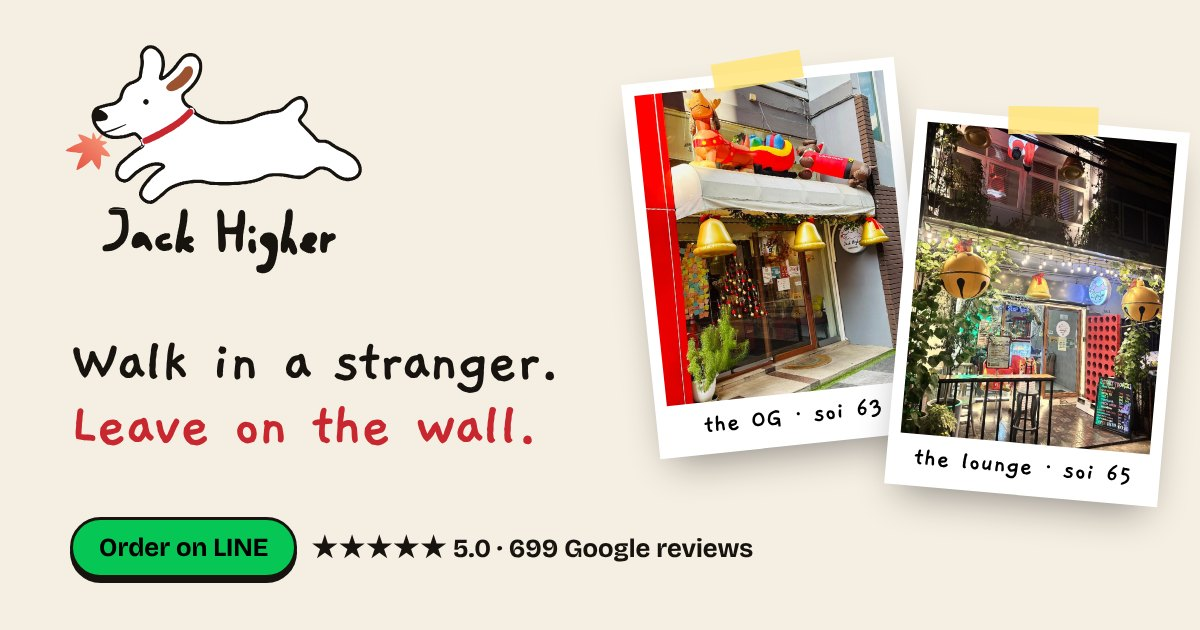
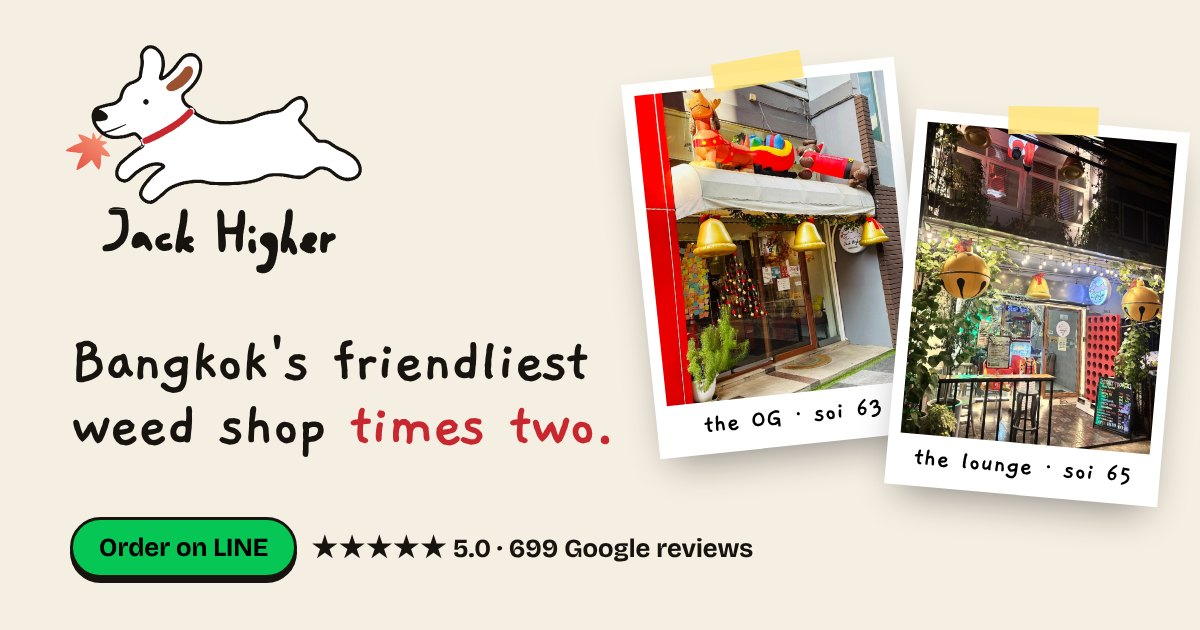
New hero: Bangkok's friendliest weed shop, times two
Headline in English and Thai, matching share title and OG image.
Fix desktop overlap: hero lines now wrap inside the copy column
instead of being forced onto one line; sizes capped so every width
shows two lines plus the red second line in both languages.

Claude-Session: https://claude.ai/code/session_011sAqMo4QswaP1YVyBxhKZm

Changed region(s): [[0.0617, 0.6333, 0.4933, 0.7238], [0.0617, 0.5429, 0.4933, 0.6333]]

diff --git a/src/styles.css b/src/styles.css
@@ -200,9 +200,8 @@ mark { background: none; color: inherit; }
 /* Thai needs air above and below for tone marks and vowels; negative tracking breaks clusters */
 :lang(th) body { line-height: 1.7; }
 :lang(th) .hand { letter-spacing: 0; }
-:lang(th) .hero__title { line-height: 1.16; font-size: clamp(2rem, 8.5vw, 4.4rem); letter-spacing: 0; }
-.hero__title .line > span { white-space: nowrap; }
-@media (min-width: 1040px) { :lang(th) .hero__title { font-size: min(4.4rem, 3.9vw); } }
+:lang(th) .hero__title { line-height: 1.16; font-size: clamp(1.8rem, 7.5vw, 4.2rem); letter-spacing: 0; }
+@media (min-width: 1040px) { :lang(th) .hero__title { font-size: min(3rem, 3.6vw); } }
 .btn, .lang { white-space: nowrap; }
 :lang(th) .js .hero__title .line, .is-th.js .hero__title .line { overflow-clip-margin: .45em; padding-top: .08em; }
 :lang(th) .section__title { line-height: 1.18; letter-spacing: 0; font-size: clamp(2.1rem, 8.6vw, 3.7rem); }
@@ -245,12 +244,12 @@ mark { background: none; color: inherit; }
 .sticker__stars svg { width: 16px; height: 16px; }
 
 .hero__title {
-  font-size: clamp(2.5rem, 10.7vw, 7.4rem);
+  font-size: clamp(2.3rem, 9.6vw, 7.4rem);
   line-height: .92; letter-spacing: -.045em;
   display: grid;
 }
 .hero__title .line { display: block; position: relative; padding-bottom: .04em; }
-.hero__title .line > span { display: inline-block; }
+.hero__title .line > span { display: inline-block; max-width: 100%; overflow-wrap: break-word; }
 .line--mark { color: var(--red); width: fit-content; }
 .scribble { position: absolute; left: -2%; bottom: -.12em; width: 104%; height: .26em; }
 .scribble path { fill: none; stroke: var(--leaf); stroke-width: 7; stroke-linecap: round; stroke-dasharray: 320; stroke-dashoffset: 320; }
@@ -362,7 +361,8 @@ mark { background: none; color: inherit; }
   :root { --header-h: 76px; --gut: 40px; }
   .hero { padding: 20px 0 90px; min-height: calc(100svh - var(--header-h)); display: grid; align-content: center; }
   .hero__inner { grid-template-columns: minmax(0, 1fr) minmax(0, 1fr); align-items: center; gap: 48px; }
-  .hero__title { font-size: min(6.3rem, 5.5vw); }
+  .hero__title { font-size: min(4rem, 4.5vw); }
+  .hero__copy { min-width: 0; }
   .hero__art { min-height: 640px; }
   .hero__polas { inset: 170px 0 0; }
   .hero__polas .pola { width: 46%; max-width: 290px; }

diff --git a/src/index.html b/src/index.html
@@ -10,7 +10,7 @@
 <link rel="canonical" href="{{SITE_URL}}/">
 <meta property="og:type" content="website">
 <meta property="og:site_name" content="Jack Higher">
-<meta property="og:title" content="Jack Higher · Walk in a stranger. Leave on the wall.">
+<meta property="og:title" content="Jack Higher · Bangkok's friendliest weed shop, times two.">
 <meta property="og:description" content="Two cozy cannabis shops in Ekkamai, Bangkok. 5.0★ from 699 Google reviews. Order on LINE.">
 <meta property="og:url" content="{{SITE_URL}}/">
 <meta property="og:image" content="{{SITE_URL}}/og.jpg">
@@ -107,8 +107,8 @@
       </a>
 
       <h1 id="hero-title" class="hero__title hand">
-        <span class="line" data-intro="2"><span data-i18n="h1a">Walk in a stranger.</span></span>
-        <span class="line line--mark" data-intro="3"><span data-i18n="h1b">Leave on the wall.</span>
+        <span class="line" data-intro="2"><span data-i18n="h1a">Bangkok's friendliest<br> weed shop</span></span>
+        <span class="line line--mark" data-intro="3"><span data-i18n="h1b">times two.</span>
           <svg class="scribble" viewBox="0 0 300 24" preserveAspectRatio="none" aria-hidden="true"><path d="M4 16c40-9 95-12 150-9s96 6 142-3"/></svg>
         </span>
       </h1>
